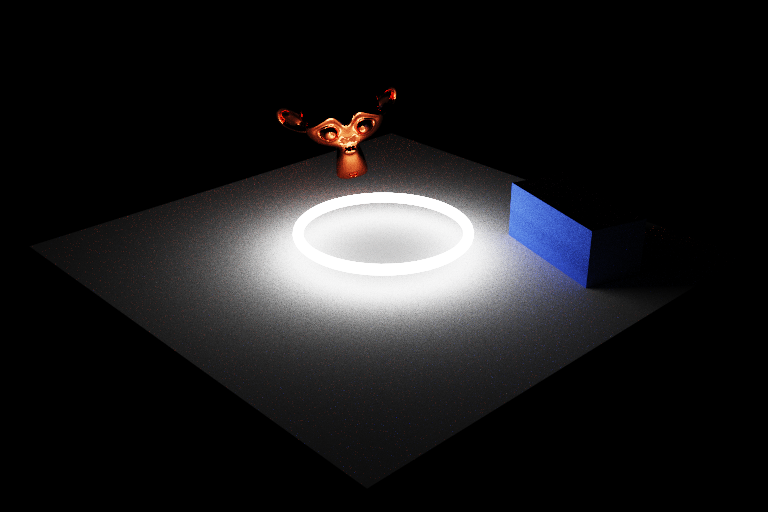
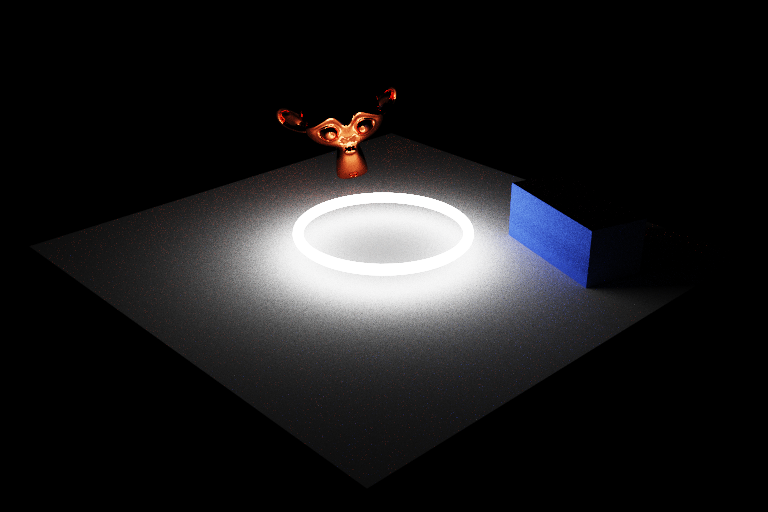
Fix bugs...

diff --git a/source/parser/parser.cpp b/source/parser/parser.cpp
@@ -18,46 +18,37 @@ static inline glm::vec3 translate(glm::vec3 point, const glm::mat4x4 &translate)
     return (translate * glm::vec4(point, 1.f)).xyz();
 }
 
-struct NewMaterial
-{
+struct NewMaterial {
     glm::vec4 base_color_factor;
-    int metallic_factor;
+    float metallic_factor;
     glm::vec3 emissive_factor;
 
     NewMaterial() : base_color_factor(1.f),
                     metallic_factor(1),
                     emissive_factor(0.f)
-    {
-    }
+    {}
 
-    NewMaterial(const rapidjson::Value &material) : NewMaterial()
-    {
-        if (material.HasMember("emissiveFactor"))
-        {
+    NewMaterial(const rapidjson::Value &material) : NewMaterial(){
+        if (material.HasMember("emissiveFactor")) {
             emissive_factor = vec3_from_array(material["emissiveFactor"].GetArray());
         }
-        if (material.HasMember("extensions"))
-        {
+        if (material.HasMember("extensions")) {
             const rapidjson::Value &extensions = material["extensions"];
-            if (extensions.HasMember("KHR_materials_emissive_strength"))
-            {
+            if (extensions.HasMember("KHR_materials_emissive_strength")) {
                 const rapidjson::Value &KHR_materials_emissive_strength = extensions["KHR_materials_emissive_strength"];
-                emissive_factor *= KHR_materials_emissive_strength["emissiveStrength"].GetInt();
+                emissive_factor *= KHR_materials_emissive_strength["emissiveStrength"].GetFloat();
             }
         }
 
-        if (!material.HasMember("pbrMetallicRoughness"))
-        {
+        if (!material.HasMember("pbrMetallicRoughness")) {
             return;
         }
         const rapidjson::Value &pbr_metallic_roughtness = material["pbrMetallicRoughness"];
-        if (pbr_metallic_roughtness.HasMember("baseColorFactor"))
-        {
+        if (pbr_metallic_roughtness.HasMember("baseColorFactor")) {
             base_color_factor = vec4_from_array(pbr_metallic_roughtness["baseColorFactor"].GetArray());
         }
-        if (pbr_metallic_roughtness.HasMember("metallicFactor"))
-        {
-            metallic_factor = pbr_metallic_roughtness["metallicFactor"].GetInt();
+        if (pbr_metallic_roughtness.HasMember("metallicFactor")) {
+            metallic_factor = pbr_metallic_roughtness["metallicFactor"].GetFloat();
         }
     }
 };
@@ -146,7 +137,7 @@ static AcessorData read_acessor_data(
     return {std::vector<char> (it_start, it_end), type, component_type};
 }
 
-std::vector<unsigned int> get_indexes(AcessorData indexes_data) {
+static std::vector<unsigned int> get_indexes(AcessorData indexes_data) {
     auto [data, type, component_type] = indexes_data;
     if (type != "SCALAR") {
         throw std::runtime_error("Not scalar type in indexes acessor: " + type);
@@ -154,7 +145,7 @@ std::vector<unsigned int> get_indexes(AcessorData indexes_data) {
     return get_real_data(data, get_size_in_bytes(component_type));
 }
 
-std::vector<glm::vec3> get_points(AcessorData points_data) {
+static std::vector<glm::vec3> get_points(AcessorData points_data) {
     auto [data, type, component_type] = points_data;
     if (type != "VEC3") {
         throw std::runtime_error("Not VEC3 type in position acessor: " + type);
@@ -164,6 +155,36 @@ std::vector<glm::vec3> get_points(AcessorData points_data) {
     }
     glm::vec3* begin = (glm::vec3*)data.data();
     return std::vector<glm::vec3>(begin, begin + data.size() / sizeof(glm::vec3));
+}
+
+
+static Camera readCamera(const NodeList &node_list, ConstJsonArray cameras, float aspect_ratio) {
+    Camera result;
+    for (rapidjson::SizeType i = 0; i < node_list.size(); i++) {
+        auto [node, matrix] = node_list[i];
+        if (!node.HasMember("camera")){
+            continue;
+        }
+
+        result.right = (matrix * glm::vec4(1.0, 0.0, 0.0, 0.0)).xyz();
+        result.up = (matrix * glm::vec4(0.0, 1.0, 0.0, 0.0)).xyz();
+        result.forward = (matrix * glm::vec4(0.0, 0.0, -1.0, 0.0)).xyz();
+
+        result.position = (matrix * glm::vec4(glm::vec3(0.f), 1.f)).xyz();
+
+        int camera_index = node["camera"].GetInt();
+        const auto &camera = cameras[camera_index];
+        if (!camera.HasMember("perspective")) {
+            throw std::runtime_error("Found not perspective camera");
+        }
+
+        const auto &camera_params = camera["perspective"];
+        result.fov_y = camera_params["yfov"].GetFloat();
+        result.fov_x = atan(aspect_ratio * tan(result.fov_y / 2)) * 2;
+
+        break;
+    }
+    return result;
 }
 
 Scene Parser::parse(std::string path, int width, int height, int samples)
@@ -196,15 +217,14 @@ Scene Parser::parse(std::string path, int width, int height, int samples)
     scene.m_background_color = glm::vec3(0.f);
 
     NodeList node_list(readArray(document, "nodes"));
-    ConstJsonArray cameras = readArray(document, "cameras");
-
-    scene.m_camera = readCamera(node_list, cameras, (float)width / height);
-
+    ConstJsonArray materials = readArray(document, "materials");
     ConstJsonArray meshes = readArray(document, "meshes");
     ConstJsonArray acessors = readArray(document, "accessors");
     ConstJsonArray buffer_views = readArray(document, "bufferViews");
     ConstJsonArray buffers = readArray(document, "buffers");
-    ConstJsonArray materials = readArray(document, "materials");
+
+    ConstJsonArray cameras = readArray(document, "cameras");
+    scene.m_camera = readCamera(node_list, cameras, (float)width / height);
 
     std::vector<std::vector<char>> buffers_contents = readBuffersContents(
         buffers, std::filesystem::path(path).parent_path());
@@ -212,9 +232,8 @@ Scene Parser::parse(std::string path, int width, int height, int samples)
     std::vector<Triangle> primitives;
     for (size_t node_index = 0; node_index < node_list.size(); node_index++)
     {
-        auto [node, matrix] = node_list[node_index];
-        if (!node.HasMember("mesh"))
-        {
+        auto [node, translation] = node_list[node_index];
+        if (!node.HasMember("mesh")) {
             continue;
         }
 
@@ -238,36 +257,30 @@ Scene Parser::parse(std::string path, int width, int height, int samples)
 
             std::vector<glm::vec3> points = get_points(
                 read_acessor_data(buffer_views, buffers_contents, position_acessor));
-            if (indexes.size() % 3 != 0)
-            {
+            if (indexes.size() % 3 != 0) {
                 throw std::runtime_error("Error: can not divide indexes into triangles; count: " + std::to_string(indexes.size()));
             }
 
             NewMaterial new_material;
-            if (primitive.HasMember("material"))
-            {
+            if (primitive.HasMember("material")) {
                 int material_index = primitive["material"].GetInt();
                 new_material = NewMaterial(materials[material_index]);
             }
 
-            for (size_t index = 0; index < indexes.size(); index += 3)
-            {
+            for (size_t index = 0; index < indexes.size(); index += 3) {
                 Triangle triangle;
-                for (size_t point_index = 0; point_index < 3; point_index++)
-                {
-                    triangle.coords[point_index] = translate(points[indexes[index + point_index]], matrix);
+                for (size_t point_index = 0; point_index < 3; point_index++) {
+                    triangle.coords[point_index] = translate(points[indexes[index + point_index]], translation);
                 }
 
                 triangle.material = MaterialType::DIFFUSE;
 
                 triangle.color = new_material.base_color_factor.xyz();
-                if (new_material.base_color_factor.w < 1.0)
-                {
+                if (new_material.base_color_factor.w < 1.0) {
                     triangle.material = MaterialType::DIELECTRIC;
                     triangle.ior = 1.5;
                 }
-                else if (new_material.metallic_factor > 0)
-                {
+                else if (new_material.metallic_factor > 0) {
                     triangle.material = MaterialType::METALLIC;
                 }
                 triangle.emission = new_material.emissive_factor;
@@ -280,36 +293,4 @@ Scene Parser::parse(std::string path, int width, int height, int samples)
     scene.setup_distribution();
 
     return scene;
-}
-
-Camera Parser::readCamera(const NodeList &node_list, ConstJsonArray cameras, float aspect_ratio) {
-    Camera result;
-    for (rapidjson::SizeType i = 0; i < node_list.size(); i++)
-    {
-        auto [node, matrix] = node_list[i];
-        if (!node.HasMember("camera"))
-        {
-            continue;
-        }
-
-        result.right = (matrix * glm::vec4(1.0, 0.0, 0.0, 0.0)).xyz();
-        result.up = (matrix * glm::vec4(0.0, 1.0, 0.0, 0.0)).xyz();
-        result.forward = (matrix * glm::vec4(0.0, 0.0, -1.0, 0.0)).xyz();
-
-        result.position = (matrix * glm::vec4(glm::vec3(0.f), 1.f)).xyz();
-
-        int camera_index = node["camera"].GetInt();
-        const auto &camera = cameras[camera_index];
-        if (!camera.HasMember("perspective"))
-        {
-            throw std::runtime_error("Found not perspective camera");
-        }
-
-        const auto &camera_params = camera["perspective"];
-        result.fov_y = camera_params["yfov"].GetFloat();
-        result.fov_x = atan(aspect_ratio * tan(result.fov_y / 2)) * 2;
-
-        break;
-    }
-    return result;
 }

diff --git a/source/parser/glm_parse.cpp b/source/parser/glm_parse.cpp
@@ -44,7 +44,7 @@ glm::mat4x4 mat4x4_from_array(ConstJsonArray array) {
     }
     glm::mat4x4 result;
     for (size_t i = 0; i < 4; i++) {
-        for (size_t j = 0; j, 4; j++) {
+        for (size_t j = 0; j < 4; j++) {
             result[i][j] = array[i * 4 + j].GetFloat();
         }
     };

diff --git a/source/parser/parser.hpp b/source/parser/parser.hpp
@@ -8,6 +8,4 @@ class Camera;
 class Parser {
 public:
     static Scene parse(std::string path, int width, int height, int samples);
-private:
-    static Camera readCamera(const NodeList &node_list, ConstJsonArray cameras, float aspect_ratio);
 };
